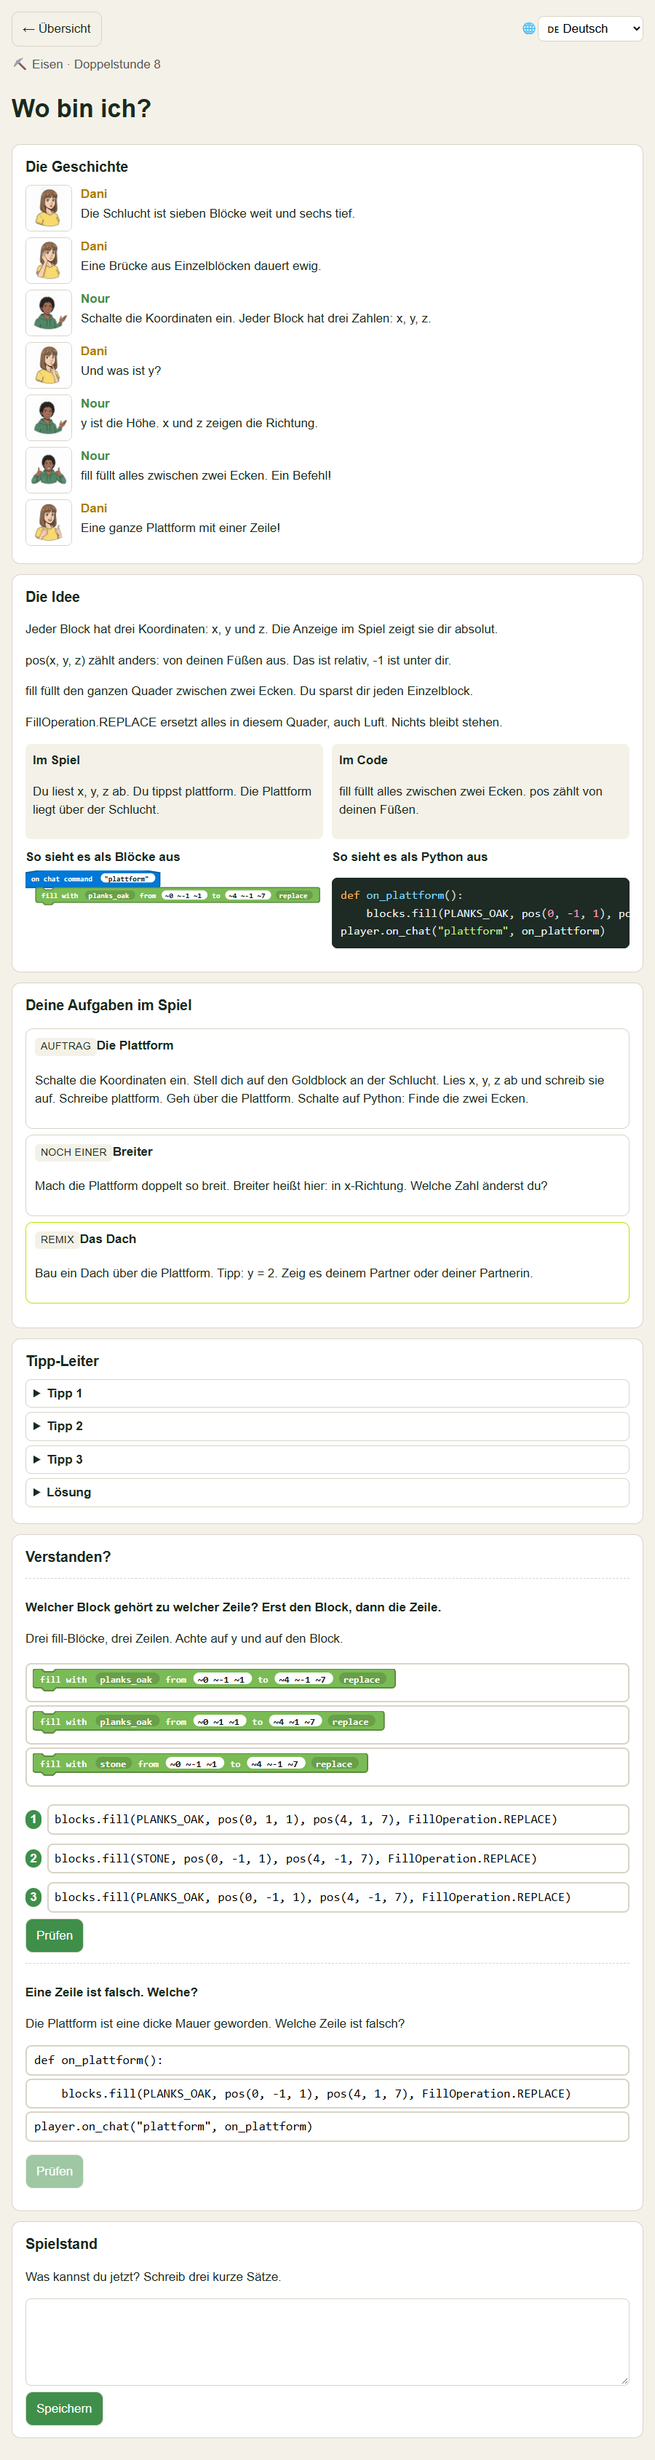
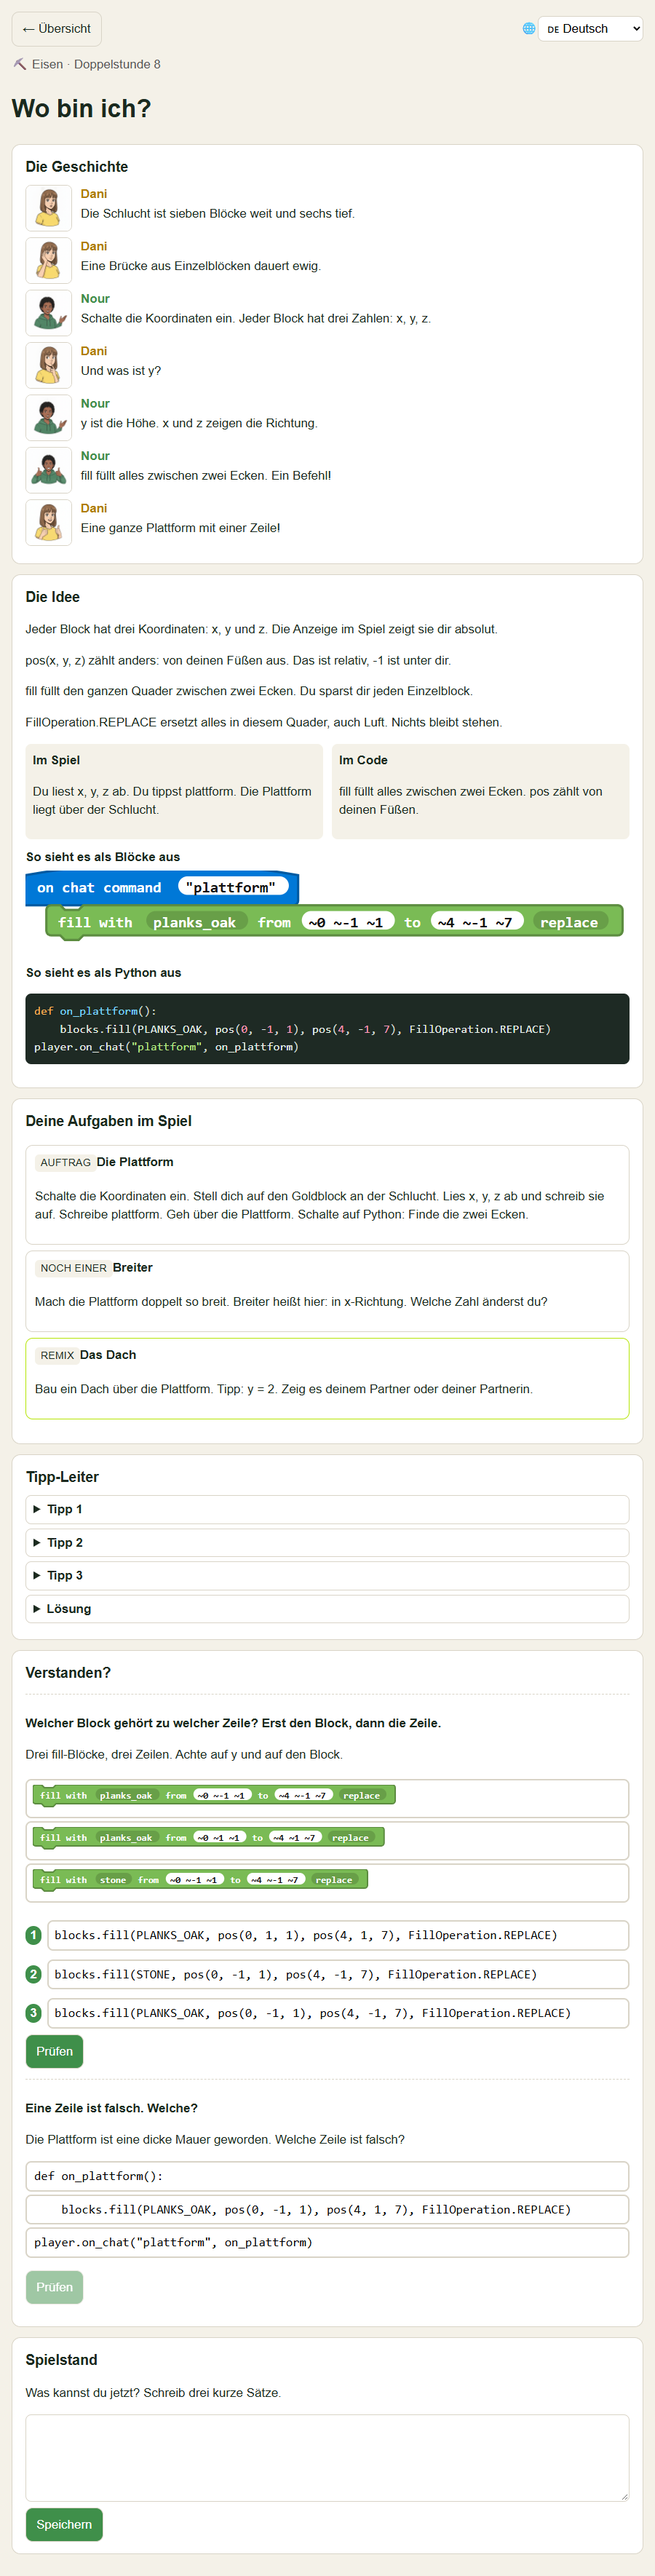
docs: plan 4 wrap-up, measured heights, Gold screenshots

diff --git a/src/data/stations.js b/src/data/stations.js
@@ -18,6 +18,12 @@ export const ETAPPEN = [
 // mit echten Werten statt dem vorlaeufigen 5200 aus Task 5/6. Nachgemessen 16.09.2026 nach dem
 // Final-Review-Fix I3 (Zuordnung in natuerlicher Blockgroesse, s08 gestapelt): s07 4650, s08 4850,
 // s09 4500, s01-s06 unveraendert.
+// Nachgemessen 17.09.2026 (Plan 4, Task 11) nach Task 1-3 (Bedingungs-Bloecke, Tipp-Luecke,
+// gestapelte Hauptansicht): s08 und s09 stapeln jetzt (blockViewWidth 522 bzw. 624, ueber
+// WIDE_MAIN=500) und sind dadurch deutlich hoeher: s08 4850->4950, s09 4500->4700. s01-s07
+// unveraendert (bleiben unter 500, Regressionsschutz in tests/conceptcard.test.jsx). s10-s12 neu
+// gemessen (bleiben nebeneinander, data-stacked=false, in der Praxis bestaetigt): s10 4950,
+// s11 4750, s12 4750 (ersetzen den vorlaeufigen Wert 5200 aus Task 5/6).
 export const STATIONS = {
   s01: {
     etappe: 'holz',
@@ -343,7 +349,7 @@ player.on_chat("bruecke", on_bruecke)`,
   s08: {
     etappe: 'eisen',
     ds: 8,
-    iframeHeight: 4850, // gemessen 16.09.2026 (nach Final-Review-Fix I3)
+    iframeHeight: 4950, // gemessen 17.09.2026 (Plan 4 Task 11, nach dem Stapeln jetzt hoeher)
     // Entwurf; Gegenpruefung im Editor: FillOperation.REPLACE in Python, pos() relativ (Fuesse = 0).
     python: `def on_plattform():
     blocks.fill(PLANKS_OAK, pos(0, -1, 1), pos(4, -1, 7), FillOperation.REPLACE)
@@ -367,7 +373,7 @@ player.on_chat("plattform", on_plattform)`,
   s09: {
     etappe: 'eisen',
     ds: 9,
-    iframeHeight: 4500, // gemessen 16.09.2026 (nach Final-Review-Fix I3 unveraendert)
+    iframeHeight: 4700, // gemessen 17.09.2026 (Plan 4 Task 11, nach dem Stapeln jetzt hoeher)
     bossCheck: { key: 'boss-eisen', gradeMax: 100 },
     // Entwurf; Gegenpruefung im Editor: zeigt der Block-Editor "for index from 0 to stufen - 1"?
     python: `def on_treppe():
@@ -394,7 +400,7 @@ player.on_chat("treppe", on_treppe)`,
   s10: {
     etappe: 'gold',
     ds: 10,
-    iframeHeight: 5200, // vorlaeufig, Task 11 misst
+    iframeHeight: 4950, // gemessen 17.09.2026 (Plan 4 Task 11)
     // Entwurf nach der MakeCode-Python-API; Gegenpruefung im Editor steht aus (Nachtrag Plan 4,
     // Abschnitt 5: detect, repeat statt for bei ungenutztem index, if-Block).
     python: `def on_ecke():
@@ -427,7 +433,7 @@ player.on_chat("ecke", on_ecke)`,
   s11: {
     etappe: 'gold',
     ds: 11,
-    iframeHeight: 5200, // vorlaeufig, Task 11 misst
+    iframeHeight: 4750, // gemessen 17.09.2026 (Plan 4 Task 11)
     // Entwurf; Gegenpruefung im Editor: if/else-Block, place(DOWN) in ein Luftloch, der Agent faellt nicht.
     // range(10) ist Absicht: 10 Felder, aber jedes Loch kostet einen Durchlauf mehr (Auftrag "Die richtige Zahl").
     python: `def on_loecher():
@@ -463,7 +469,7 @@ player.on_chat("loecher", on_loecher)`,
   s12: {
     etappe: 'gold',
     ds: 12,
-    iframeHeight: 5200, // vorlaeufig, Task 11 misst
+    iframeHeight: 4750, // gemessen 17.09.2026 (Plan 4 Task 11)
     bossCheck: { key: 'boss-gold', gradeMax: 100 },
     // Entwurf; Gegenpruefung im Editor: while not als Block, Stopp eines endlosen while im Code Builder.
     python: `def on_ziel():

diff --git a/docs/lehrkraft-probelauf.md b/docs/lehrkraft-probelauf.md
@@ -1,10 +1,10 @@
-# Probelauf für Dirk — Etappen Holz, Stein und Eisen in der Box
+# Probelauf für Dirk — Etappen Holz, Stein, Eisen und Gold in der Box
 
 Schritt-für-Schritt-Anleitung für den ersten eigenen Durchlauf durch Plan 2 (sechs Stationen,
 zwei Boss-Checks, zwei Badges, Forum, Lehrkraft-Abschnitt) in der lokalen Kurs-in-a-Box. Dauer
-für den vollständigen Durchlauf: ca. 30–45 Minuten. Plan 3 (Eisen, DS 7–9) hat einen eigenen,
-kürzeren Abschnitt weiter unten, „Etappe Eisen". Er baut auf den Grundlagen hier auf (Login,
-Reset, Badge-Ansicht) und wiederholt sie nicht.
+für den vollständigen Durchlauf: ca. 30–45 Minuten. Plan 3 (Eisen, DS 7–9) und Plan 4 (Gold, DS
+10–12) haben je einen eigenen, kürzeren Abschnitt weiter unten, „Etappe Eisen" und „Etappe Gold".
+Beide bauen auf den Grundlagen hier auf (Login, Reset, Badge-Ansicht) und wiederholen sie nicht.
 
 ## 1. Box starten
 
@@ -162,13 +162,66 @@ per MCP, kein Klicken nötig).
 
 ---
 
+## Etappe Gold (DS 10–12)
+
+Plan 4: drei neue Stationen mit Bedingungen (`if`, `if/else`, `while not`) statt reiner
+Abfolge. Neuer Übungstyp „Tipp-Lücke" (Zahl oder Wort selbst eintippen statt auswählen), dazu ein
+Parcours in der Welt „ankunft" (vier Bahnen: Ecke, Löcher, Ziel, Boss), Boss-Check und Badge
+Gold.
+
+### Reset vor dem Durchlauf
+
+Derselbe Befehl wie bei Holz, Stein und Eisen (Punkt 4 oben): er setzt `schueler1` in **allen
+vier** Etappen zurück, nicht nur in Gold.
+
+    bash moodle/apply-php.sh php/reset-test-student.php 10 schueler1
+    npm run moodle:postbuild
+
+### Reihenfolge
+
+Abschnitt „Gold" im Kurs, je Station Label → Quiz, wie bei den drei Etappen davor:
+
+1. **s10 „Wenn, dann":** `if` und `agent.detect`, um die Ecke im Gang.
+2. **s11 „Sonst":** `if/else`, Löcher füllen statt hineinzufallen.
+3. **s12 „Solange":** `while not`, bis zur Wand laufen.
+4. **Boss-Check Gold** (letztes Element im Abschnitt): als `schueler1` einen Text abgeben, wie
+   bei den drei Boss-Checks davor (Schritt 7 oben).
+
+### Worauf achten
+
+- **Blick nach Süden:** alle drei Bahnen (und der Boss) starten auf einer Goldmarke mit Blick
+  nach Süden (`+z`). `LEFT_TURN` dreht von dort nach Osten. Steht die Person beim Start falsch
+  herum, laufen `ecke`, `loecher` und `ziel` in die falsche Richtung.
+- **`range(10)` scheitert absichtlich (s11):** die Bahn „Löcher" hat zehn Felder, aber vier davon
+  sind Löcher. `range(10)` reicht darum nicht bis zur Wand, das ist die Pointe der Übung „Die
+  richtige Zahl" (Antwort: 14). Das ist kein Fehler in der Station.
+- **Tipp-Lücke meldet „Fast" bei Kleinschreibung:** tippt man `redstone` statt `REDSTONE` oder
+  `down` statt `DOWN` in eine Lücke, zeigt die Übung „Fast. Python unterscheidet groß und klein.",
+  nicht „Richtig". Das ist Absicht (MakeCode meldet Kleinschreibung im Python-Editor ebenfalls als
+  Fehler).
+- **Endlosschleife stoppen (s12):** `while not agent.detect(...)` läuft weiter, solange die
+  Bedingung nicht eintritt. Kommt das Programm nie an eine Wand, läuft es endlos. Wie man ein
+  laufendes Programm im Code Builder stoppt, ist einer der offenen Editor-Prüfpunkte unten.
+- **Redstone-Erkennung (Boss-Bahn):** die Boss-Bahn endet an einem Redstone-Block, nicht an einer
+  Wand. Ob `AgentDetection.REDSTONE` wirklich einen Redstone-**Block** erkennt oder nur
+  Redstone-**Staub**, ist ebenfalls einer der offenen Editor-Prüfpunkte (siehe unten); erkennt der
+  Editor nur Staub, muss das Ziel der Boss-Bahn neu entschieden werden.
+
+### Badge sehen
+
+Wie bei den drei Etappen davor: Badge-Übersicht `http://localhost:8080/badges/index.php?type=2&id=10`,
+oder automatisch per `npm run moodle:smoke:learner -- --etappe gold` (echter Lernpfad,
+Badge-Nachweis per MCP, kein Klicken nötig).
+
+---
+
 ## Rückmeldeliste
 
 Bitte beim Durchlauf auf diese Punkte achten und zurückmelden:
 
 - [ ] **Sprache A2/B1:** Sind die deutschen Texte für die Zielgruppe verständlich? Zu schwer,
       zu kindlich, Fachbegriffe ungeklärt?
-- [ ] **Python im Editor:** Stimmen die Codezeilen aus den Stationen (s01–s09) tatsächlich mit
+- [ ] **Python im Editor:** Stimmen die Codezeilen aus den Stationen (s01–s12) tatsächlich mit
       dem, was MakeCode im Editor anbietet, überein? (Noch nicht im Spiel geprüft, siehe unten.)
 - [ ] **Reihenfolge:** Ergibt der Aufbau innerhalb einer Station Sinn (Dialog → Konzept →
       Aufgabe → Tipp-Leiter → Übungen → Quiz)? Wirkt eine Station zu lang oder zu kurz?
@@ -193,14 +246,25 @@ Diese Punkte kann kein Test in der Box beantworten — sie brauchen Minecraft Ed
   rendert (s09, betrifft die Minus-Ausdruck-Pille in der Block-Ansicht), ob eine Variable als erste
   Zeile im Chat-Handler landet oder in `on start` (s07), und der Name der Koordinatenanzeige in der
   deutschen und englischen Spiel-UI (für `00-setup.md`).
+- **Editor- und Spiel-Prüfpunkte Gold (Nachtrag Plan 4, Abschnitt 5, sieben Punkte,
+  `docs/specs/2026-09-17-code-welt-plan4-nachtrag.md`):** zählen Wasser, Lava und Luft bei
+  `agent.detect(AgentDetection.BLOCK, ...)` als Block; fällt der Agent, wenn er über ein Loch
+  läuft, oder schwebt er; füllt `agent.place(DOWN)` wirklich ein Luftloch; erkennt
+  `AgentDetection.REDSTONE` einen Redstone-**Block** oder nur Redstone-**Staub** (falls nur Staub,
+  muss das Ziel der Boss-Bahn neu entschieden werden, samt Bahndaten, Simulator und Boss-Text);
+  schaut der Agent nach `agent.teleport_to_player()` in die Blickrichtung der Person, und dreht
+  `LEFT_TURN` bei Blick nach Süden nach Osten; wie wandelt der Editor `if … else` und `while not
+  …` zwischen Blöcken und Python, zeigt er `for index in range(20)` mit ungenutztem `index` als
+  `repeat 20`; wie stoppt man ein endlos laufendes `while` im Code Builder (für `ds12.md`).
 - **Ring-Tür-Hypothese (Boss-Check Stein, „Der Zaun"):** Der Agent endet vermutlich auf seinem
   Startfeld, das schon einen Block trägt — dann fehlt der letzte Block und der Ring hat von
   selbst eine Lücke. Einmal `haus` bauen lassen und nachzählen: **19 oder 20 Blöcke?** (Details
   und beide Fälle: `content/lehrkraft/ds06.md`.)
 - **Weltdatei „ankunft":** Bauplan (`content/lehrkraft/01-welt-ankunft.md`), Bauskript
-  (`scripts/minecraft/welt-ankunft-bau.py`) und seit Plan 3 der Chat-Befehl `erkunden` für das
-  Erkundungsgebiet liegen bereit. Welt im Editor um `erkunden` erweitern, dann komplett als
-  `.mcworld` neu exportieren, in den Lehrkraft-Ordner „Weltdateien" (Abschnitt 1) hochladen.
+  (`scripts/minecraft/welt-ankunft-bau.py`) und die Chat-Befehle `erkunden` (Plan 3) und
+  `parcours` (Plan 4, vier Bahnen: Ecke, Löcher, Ziel, Boss) liegen bereit. Welt im Editor um
+  beide Befehle erweitern, Schilder setzen, dann komplett als `.mcworld` neu exportieren, in den
+  Lehrkraft-Ordner „Weltdateien" (Abschnitt 1) hochladen.
 - **Blickrichtung der Schilder** DS 1–6 (vom Spawn aus lesbar, Schriftseite nach Süden) — im
   Spiel prüfen.
 - **Achsen und Blickrichtung (vor `bau` und `erkunden`):** Laut Doku ist +x Osten und +z Süden.
@@ -221,8 +285,8 @@ Diese Punkte kann kein Test in der Box beantworten — sie brauchen Minecraft Ed
 
 Ukrainisch und Arabisch sind maschinell übersetzt und automatisiert gegen Zauberwörter, Zahlen,
 Etappennamen und Glossarbegriffe geprüft (`npm test`), aber noch nicht von Muttersprachler:innen
-gegengelesen. Bitte für uk und ar je eine Stichprobe (z. B. eine ganze Station) von einer
-kundigen Person lesen lassen — insbesondere die arabische Register-Frage aus Task 9 ist eine
+gegengelesen. Bitte für uk und ar je eine Stichprobe (z. B. eine ganze Station, Holz bis Gold) von
+einer kundigen Person lesen lassen. Die arabische Register-Frage aus Task 9 ist dabei eine
 bewusste, aber ungeklärte Entscheidung: alle Imperative im Kurs sind maskulin, eine neutrale
 Form gäbe es nur über einen kompletten Registerwechsel (Verbalnomen statt Imperativ). Wenn das
 störend wirkt, ist das ein eigener kleiner Task.

diff --git a/README.md b/README.md
@@ -68,14 +68,19 @@ wieder mit den aktuellen CMIDs verknüpfen, falls seitdem ein Quiz neu angelegt 
 Plan 1) — die App zeichnet die Block-Ansicht aller sechs Stationen live aus `src/data/stations.js`,
 diese Datei wird nicht mehr gebraucht und nicht mehr gepflegt.
 
-## Screenshots (Stand 16.09.2026)
+## Screenshots (Stand 17.09.2026)
 
 Deutsch, 900px Breite, volle Seite (`scripts/measure-heights.mjs` erzeugt die Werte, die
 Screenshots selbst entstehen mit einem Wegwerf-Playwright-Skript nach demselben Verfahren, siehe
 Final-Review-Fix A):
 
 - `docs/station-s01.png` … `docs/station-s06.png`: je eine Station komplett (Holz, Stein).
-- `docs/station-s07.png` … `docs/station-s09.png`: je eine Station komplett (Eisen).
+- `docs/station-s07.png`: Station komplett (Eisen, Block und Python nebeneinander).
+- `docs/station-s08.png`, `docs/station-s09.png`: Station komplett (Eisen). Neu aufgenommen
+  17.09.2026 (Plan 4, Task 11): beide stapeln seit Task 3 Block-Ansicht und Python
+  untereinander (`blockViewWidth` über `WIDE_MAIN = 500`).
+- `docs/station-s10.png` … `docs/station-s12.png`: je eine Station komplett (Gold, Block und
+  Python nebeneinander, beide bleiben unter `WIDE_MAIN`).
 - `docs/blockview-s02.png` — Block-Ansicht und Python nebeneinander (Station s02, `.side-by-side`).
 
 ## Stand
@@ -135,11 +140,60 @@ um), `scripts/smoke.mjs` prüft seitdem zusätzlich `scrollWidth <= 750`.
 Nicht in Plan 3: Gold (Plan 4), Audio, Cheat-Sheets, Glossar-Vollausbau über die vier Einträge
 hinaus, Deploy (Phase 6), Hour-of-Code-Verweise, neue Charakter-Posen.
 
+**Plan 4 (Gold) fertig:** drei Stationen (DS 10–12) in sechs Sprachen mit `if`, `if/else` und
+`while not`. Block-Ansicht um Sechseck-Bedingungen erweitert (`agent.detect` in Agent-Farbe, `not`
+in Logik-Farbe, verschachtelbar), dazu eine `else`-Zeile; Konsistenztest deckt jetzt `if `,
+`else:` und `while ` gegen das Python ab. Neuer Übungstyp „Tipp-Lücke" (`TypeGap`, eigene
+Prüflogik `judgeGap`/`judgeAll`, meldet „Fast" bei falscher Groß-/Kleinschreibung statt einfach
+„falsch"). Die Hauptansicht stapelt jetzt breite Blöcke über den Python-Code statt sie
+nebeneinander zu quetschen (`WIDE_MAIN = 500`, `ConceptCard.jsx`). Das trifft s08 und s09 (Eisen,
+`fill`-Blöcke); Gold bleibt nebeneinander. Ein Parcours (`scripts/minecraft/parcours.json`, vier
+Bahnen: Ecke, Löcher, Ziel, Boss) mit eigenem Simulator (`parcours-sim.mjs`, Achsen-Mutationsprobe,
+Bindung an `STATIONS` und die Tipp-Lücken-Antworten) und Skript-Abgleich gegen
+`welt-ankunft-bau.py`. Boss-Check Gold als Aufgabe, Badge Gold mit Icon, Verleihung über den
+echten Lernpfad nachgewiesen (`npm run moodle:smoke:learner -- --etappe gold`). Übersetzung der
+drei Stationen, der `ui`-Schlüssel der Tipp-Lücke und vier neuer Glossarbegriffe in fünf Sprachen:
+1,331 USD (unter dem 3-USD-Deckel).
+
+`iframeHeight` für s10–s12 gemessen (Task 11, 17.09.2026): 4950, 4750, 4750 (ersetzen den
+vorläufigen Wert 5200). Dabei fiel auf, dass s08 und s09 durch das Stapeln aus Task 3 spürbar
+höher geworden sind: 4850→4950 bzw. 4500→4700, neu vermessen und neu geschossen. s01–s07 bleiben
+unverändert. Box neu gebaut (`moodle:build` ×2: Labels s08–s12 beim ersten Lauf in-place
+aktualisiert, cmid unverändert; zweiter Lauf ohne Änderungen), `apply-completion.sh`,
+`moodle:postbuild` ×2 (keine Quiz-Neuanlage, `reset-badges.php` darum nicht nötig). App-Smoke
+(72 Checks) und Box-Smoke (19 Checks) je dreimal hintereinander grün; Lernenden-Pfade Gold, Eisen
+und Holz alle grün (Eisen/Holz unverändert gegenüber Plan 2/3).
+
+Abweichungen gegenüber dem Plan (Details je Task-Report, Ledger
+`.superpowers/sdd/2026-09-17-code-welt-04-gold/progress.md`): das Bauskript setzt Goldmarken und
+Redstone-Block selbst statt sie Dirk von Hand setzen zu lassen; die s11-Fehlersuche prüft
+`FORWARD` statt `DOWN`; die Stapel-Schwelle der Hauptansicht liegt bei 500 px statt einer halben
+Spalte; der Boss-Text steht im Präsens; ds12 bekam ein 60/80/100-Punkteraster wie ds09. Zwei
+Handkorrekturen nach der maschinellen Übersetzung: uk s11 „Agent" in lateinischer statt
+kyrillischer Schrift (jetzt mit eigenem Test gegen „Агент" abgesichert), ar s12 Imperative statt
+Verbalnomen; dazu der Boss-Titel-Trenner „: " in uk/ar s09 und s12. Ob der Agent über Löchern
+fällt, ist weiterhin offen (Prüfliste unten). Alle vier Boss-Aufgaben wurden beim letzten Box-Bau
+neu angelegt, weil der `ui`-Chunk (Tipp-Lücken-Hinweis) neu übersetzt wurde (erwartet, kein Fund).
+
+Nicht in Plan 4: Diamant, Audio, Cheat-Sheets, Deploy (Phase 6), Hour-of-Code-Verweise, neue
+Charakter-Posen, die it/es-Korrekturen aus Plan 3.
+
 **Offen für Dirk** (Details: `docs/lehrkraft-probelauf.md`):
-- **Offener DoD-Punkt Plan 3:** Die Editor-Prüfung (Nachtrag Plan 3, Abschnitt 5) sollte laut Spec
-  vor dem Übersetzen liegen. Übersetzt ist schon. Ändert die Prüfung Python oder Stütztexte von
-  s07–s09, müssen diese Chunks neu übersetzt werden
-  (`npm run translate -- --lang all --chunk stations.s07,stations.s08,stations.s09`).
+- **Offener DoD-Punkt Plan 4:** Prüfliste „Im Editor und im Spiel zu prüfen" (Nachtrag Plan 4,
+  Abschnitt 5, sieben Punkte: zählt `agent.detect(BLOCK)` Wasser/Lava/Luft als Block, fällt der
+  Agent über einem Loch, füllt `agent.place(DOWN)` ein Luftloch, erkennt `REDSTONE` einen Block
+  oder nur Staub, schaut der Agent nach `teleport_to_player()` in Blickrichtung und dreht
+  `LEFT_TURN` bei Süden nach Osten, wie zeigt der Editor `if/else`/`while not`/`repeat` an, wie
+  stoppt man ein endloses `while` im Code Builder) steht noch aus.
+- **Weiterhin offen: Offener DoD-Punkt Plan 3** (Editor-Prüfung s07–s09, s. Plan-3-Abschnitt
+  unten).
+- Ändert die Prüfung Python oder Stütztexte von s10–s12, diese Chunks neu übersetzen
+  (`npm run translate -- --lang all --chunk stations.s10,stations.s11,stations.s12`).
+- Welt „ankunft" um den Parcours erweitern (Bauplan + Bauskript-Befehl `parcours` liegen bereit),
+  Schilder setzen, danach komplett neu als `.mcworld` exportieren (weiterhin auch das
+  Erkundungsgebiet aus Plan 3 offen, siehe unten).
+- **Probelauf Gold** in der Box (Abschnitt „Etappe Gold" in `docs/lehrkraft-probelauf.md`),
+  ausdrücklich noch nicht durchgeführt.
 - Python im Editor gegenprüfen — Stationen s01–s09 sowie `scripts/minecraft/welt-ankunft-bau.py`
   (`agent.teleport(world(...), SOUTH)`-Signatur, Nachtrag Plan 3 Abschnitt 5: Brücke über Wasser,
   `FillOperation.REPLACE`-Syntax, `for … to`-Rendering im Editor, Variable als erste Zeile im
@@ -150,9 +204,10 @@ hinaus, Deploy (Phase 6), Hour-of-Code-Verweise, neue Charakter-Posen.
 - Ring-Tür-Hypothese (Boss-Check Stein): im Spiel nachzählen, ob der Ring 19 oder 20 Blöcke hat.
 - Weltdatei „ankunft" im Editor bauen (Bauplan + Bauskript liegen bereit, inkl. Erkundungsgebiet),
   als `.mcworld` exportieren, in den Lehrkraft-Ordner „Weltdateien" hochladen.
-- uk- und ar-Übersetzung von Muttersprachler:in gegenlesen lassen (Eisen kommt dazu; die
+- uk- und ar-Übersetzung von Muttersprachler:in gegenlesen lassen (Eisen und Gold kommen dazu; die
   arabische Register-Frage aus Task 9, Imperative bleiben maskulin, ist eine eigene, noch offene
   Entscheidung).
 - Probelauf Eisen in der Box (Abschnitt „Etappe Eisen" in `docs/lehrkraft-probelauf.md`).
 
-Nächster Schritt: Plan 4 (Gold), danach Phase 5/6.
+Nächster Schritt: Dirks Prüflisten (Plan 3 und Plan 4, je Abschnitt 5) und die Probeläufe Eisen
+und Gold in der Box, danach Plan 5 (Diamant) bzw. Phase 5/6.

diff --git a/docs/plans/2026-09-17-code-welt-04-gold.md b/docs/plans/2026-09-17-code-welt-04-gold.md
@@ -1,5 +1,32 @@
 # Code-Welt · Plan 4 von 6: Gold (DS 10–12) — Implementation Plan
 
+> **Stand 17.09.2026: umgesetzt bis auf Dirks Prüfliste (siehe „Offen" unten).** Abweichungen
+> gegenüber diesem Plan (Details je Task-Report, Ledger
+> `.superpowers/sdd/2026-09-17-code-welt-04-gold/progress.md`): Das Bauskript setzt Goldmarken und
+> Redstone-Block in der Welt selbst statt sie Dirk von Hand setzen zu lassen. Die s11-Fehlersuche
+> prüft `FORWARD` statt `DOWN` (vertauschte Zweige hätten zwei falsche Zeilen ergeben, FindBug
+> verlangt genau eine). Die Stapel-Schwelle der Hauptansicht liegt bei 500 px statt einer halben
+> Spalte (330 hätte auch Holz und Stein verändert, was der DoD „unverändert" widerspricht). Der
+> Boss-Text steht im Präsens statt im ursprünglichen Wortlaut aus Plan/Spec. `ds12.md` bekam ein
+> 60/80/100-Punkteraster wie `ds09.md` (der Brief nannte nur „bestanden"). Ob der Agent über
+> Löchern fällt oder schwebt, ist als offene Frage formuliert statt als Aussage, weil das nur im
+> Spiel zu klären ist (Prüfliste unten, Punkt 2). Zwei Handkorrekturen nach der maschinellen
+> Übersetzung statt eines teuren Chunk-Neulaufs: uk s11 „Agent" in lateinischer statt kyrillischer
+> Schrift (acht Stellen, jetzt mit einem eigenen Test gegen „Агент" abgesichert), und ar s12
+> Imperative statt Verbalnomen; dazu der Boss-Titel-Trenner „: " von Hand in uk/ar s09 und s12.
+> Alle vier Boss-Aufgaben wurden beim letzten Box-Bau neu angelegt, weil der `ui`-Chunk
+> (Tipp-Lücken-Hinweis) neu übersetzt wurde; das war erwartet, kein Fund.
+>
+> **Offen (DoD-Punkt, nicht erledigt):** Dirks Prüfung nach Nachtrag Plan 4, Abschnitt 5 (sieben
+> Punkte: Wasser/Lava/Luft als Block, Fallverhalten über Löchern, `place(DOWN)` in ein Luftloch,
+> `REDSTONE`-Erkennung Block oder Staub, Blickrichtung nach `teleport_to_player()`, `if/else` und
+> `while not` im Editor, Stopp eines endlosen `while`). Die Prüfung von Plan 3 (Nachtrag Plan 3,
+> Abschnitt 5) steht ebenfalls noch aus, beide Listen lassen sich in einer Sitzung abarbeiten.
+> Ändert eine der beiden Prüfungen Python oder Stütztexte von s10–s12, müssen diese Chunks neu
+> übersetzt werden (`npm run translate -- --lang all --chunk stations.s10,stations.s11,stations.s12`).
+> Ebenfalls offen: die Welt „ankunft" um den Parcours-Befehl erweitern, Schilder setzen und neu als
+> `.mcworld` exportieren, sowie der Probelauf Gold selbst.
+
 > **For agentic workers:** REQUIRED SUB-SKILL: Use superpowers:subagent-driven-development (recommended) or superpowers:executing-plans to implement this plan task-by-task. Steps use checkbox (`- [ ]`) syntax for tracking.
 
 **Goal:** Die Etappe Gold komplett: drei Stationen (DS 10–12) in sechs Sprachen mit `if`, `if/else` und `while not`, der neue Übungstyp Tipp-Lücke, Bedingungs-Blöcke in der Block-Ansicht, ein Parcours in der Welt `ankunft` mit Simulator-Test, Boss-Check und Badge Gold, Lehrkraft-Seiten, erweiterte Smokes, bereit für Dirks Probelauf Gold in der Box.
